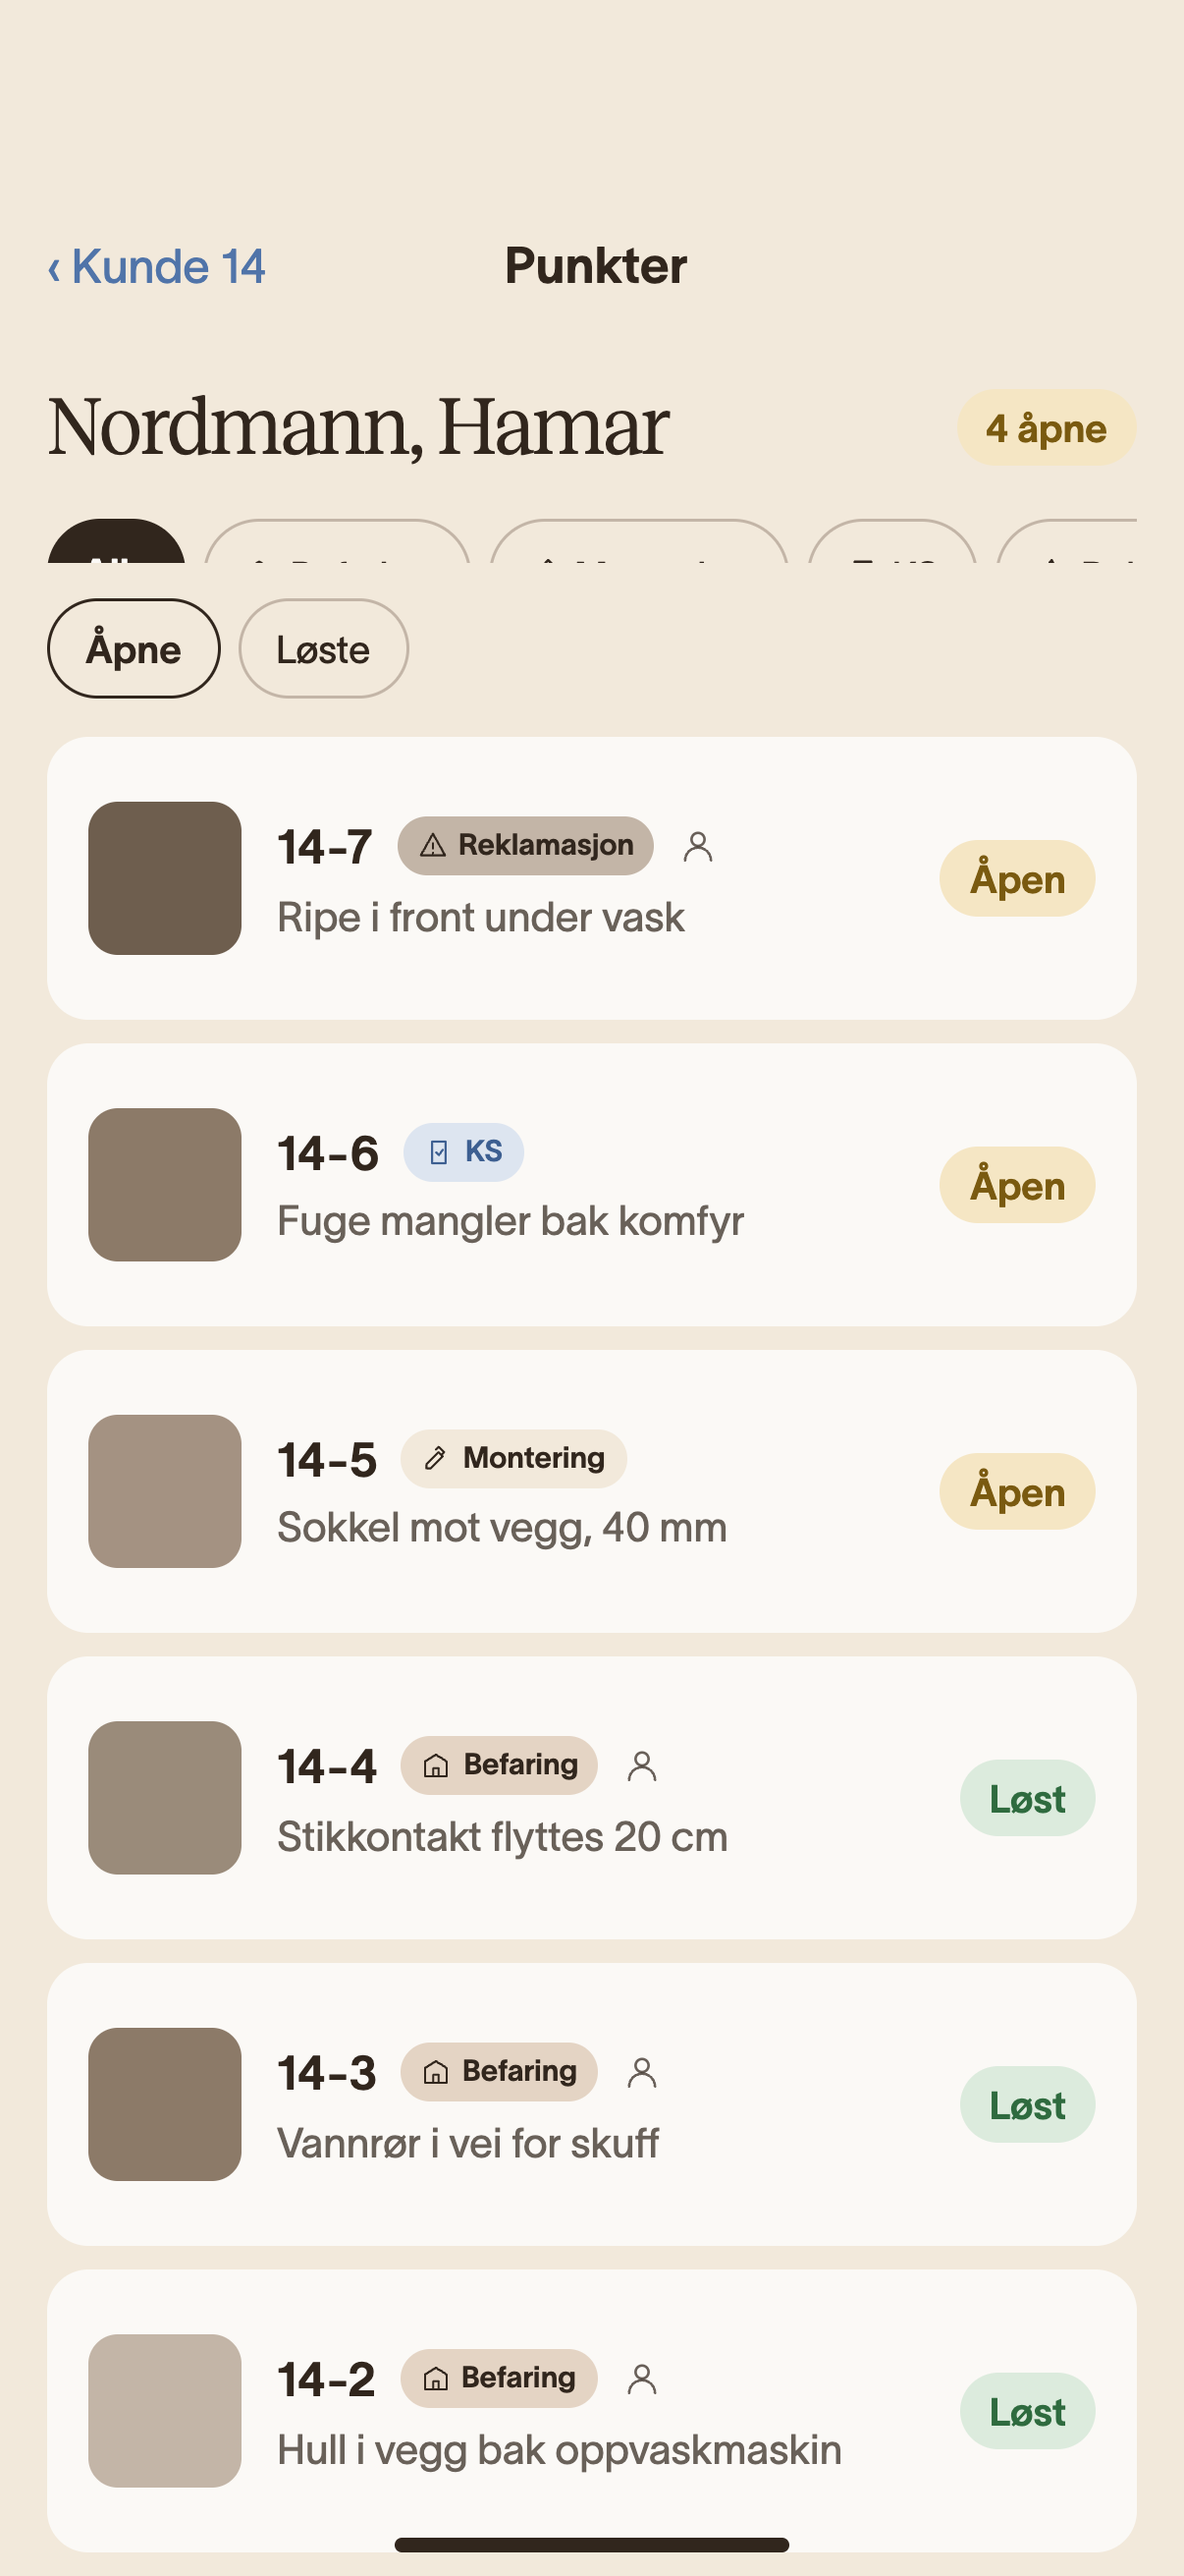
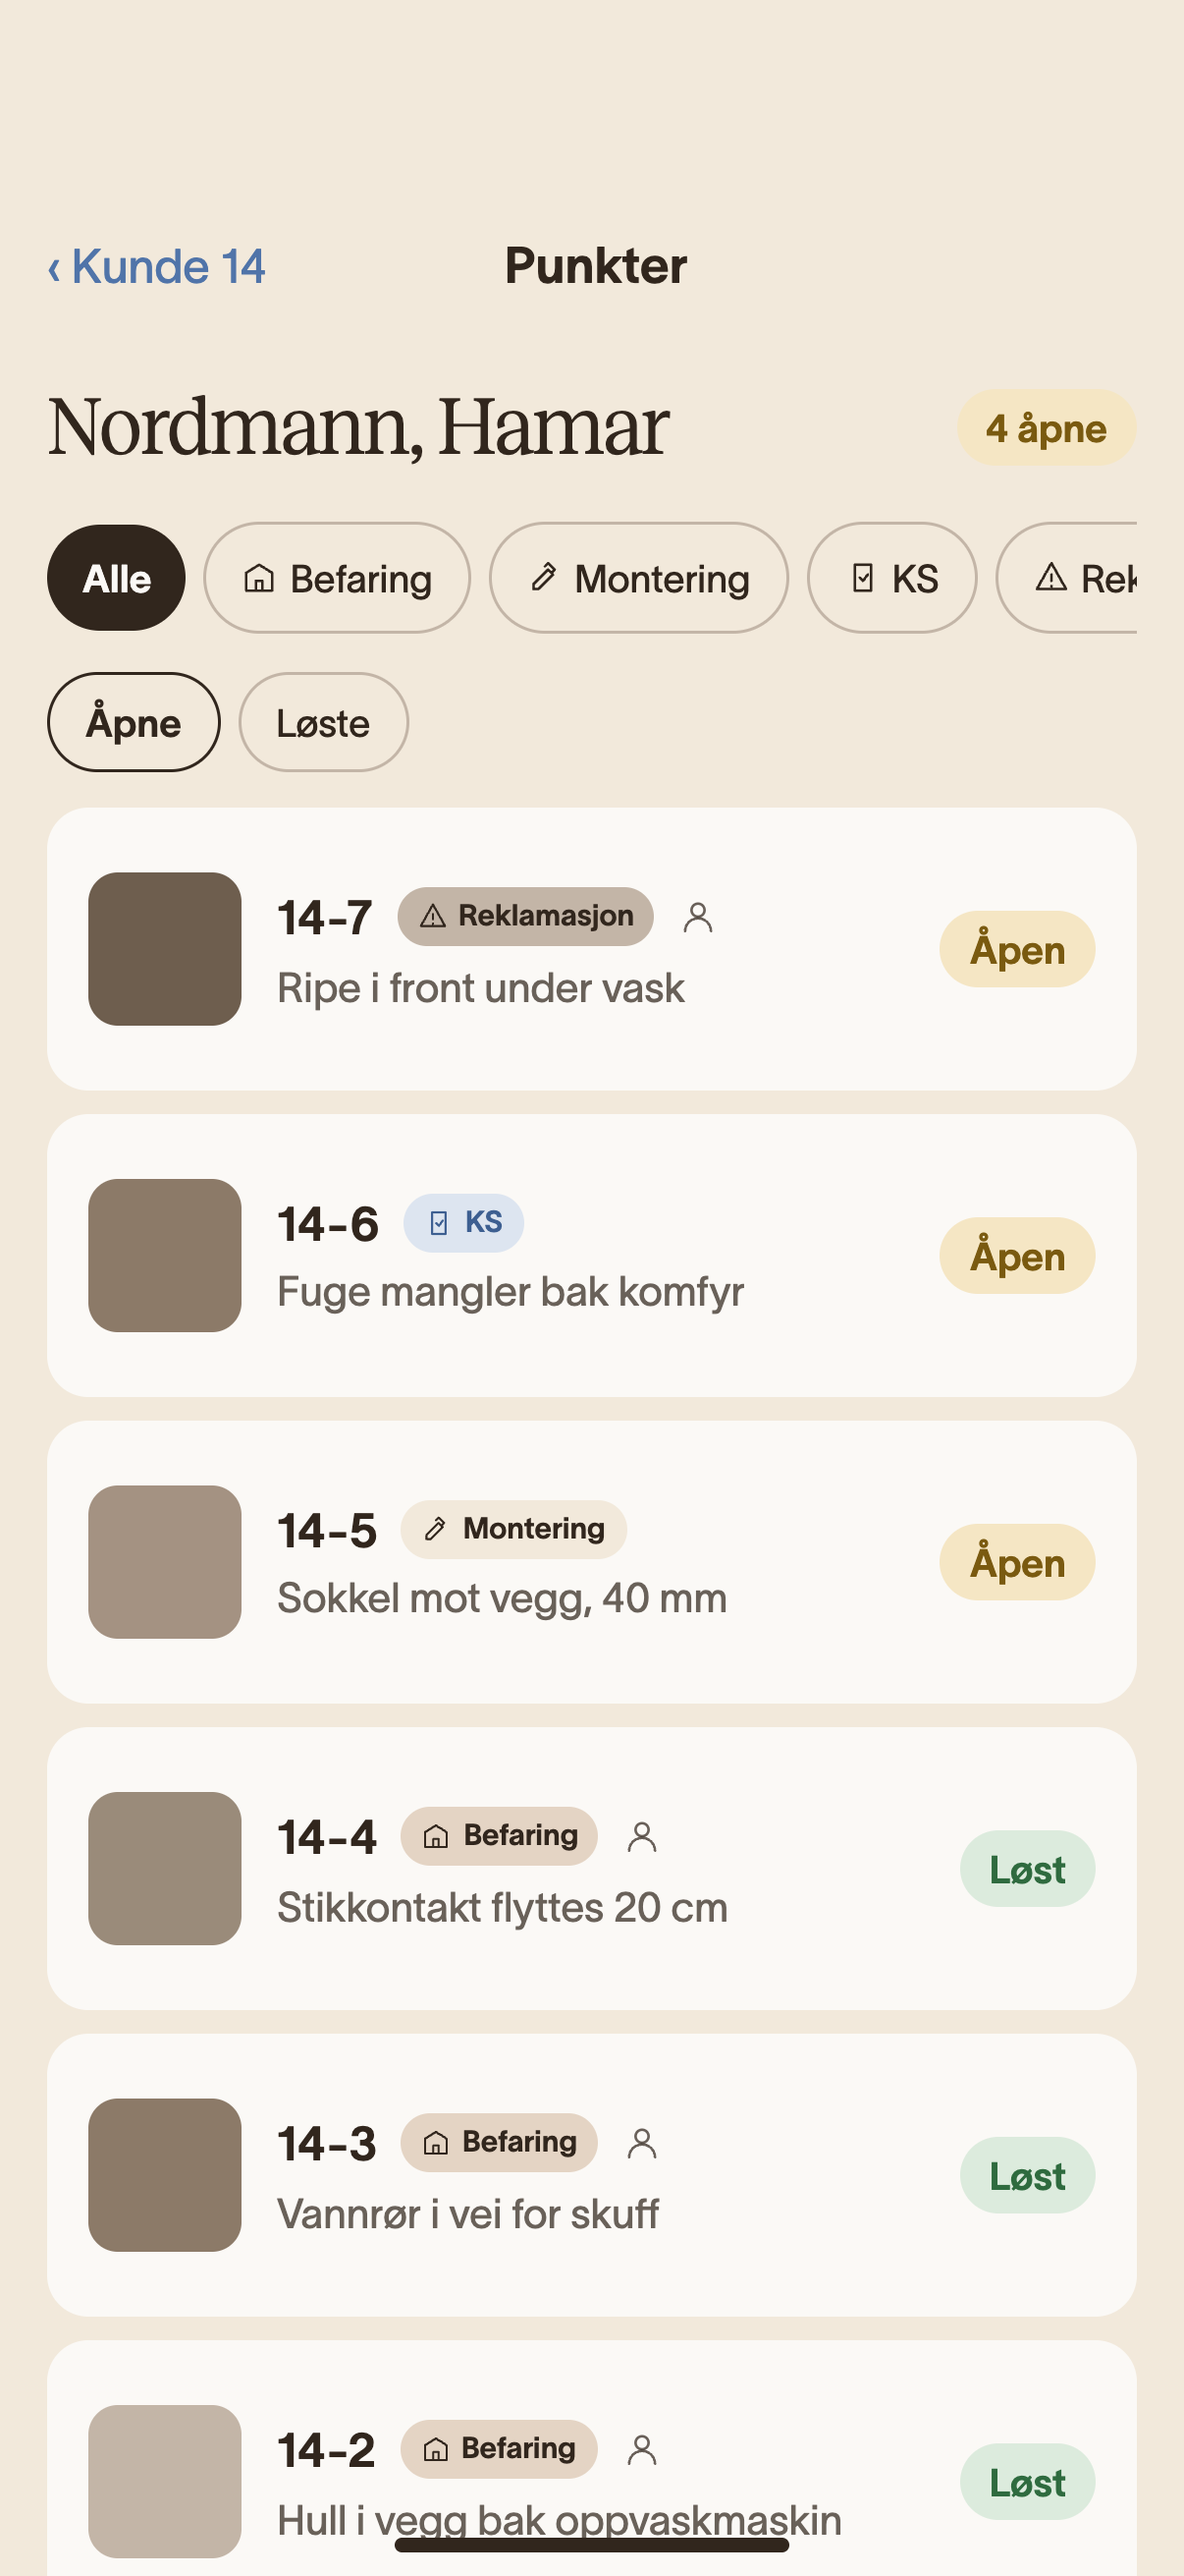
Pakke v7: ute-punkter med hel filterrad

diff --git a/delt/pakke-v7/INSTRUKS.md b/delt/pakke-v7/INSTRUKS.md
@@ -9,7 +9,7 @@ Alle montørbildene fra fil 36 tatt på nytt med nye navn: kunden heter Kari Nor
   - ute-ks-kamera (MV16)
   - ute-ks (MV16.1, «Ta bilde først»)
   - ute-avvik (MV17)
-  - ute-punkter (MV14)
+  - ute-punkter (MV14, filterraden rettet)
   - ute-punktkort (MV15)
   - ute-ferdig (MV1.3)
   - ute-typeskilt (MV19.8)
